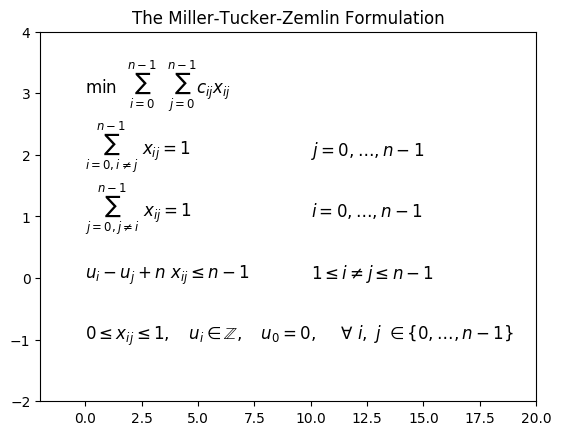
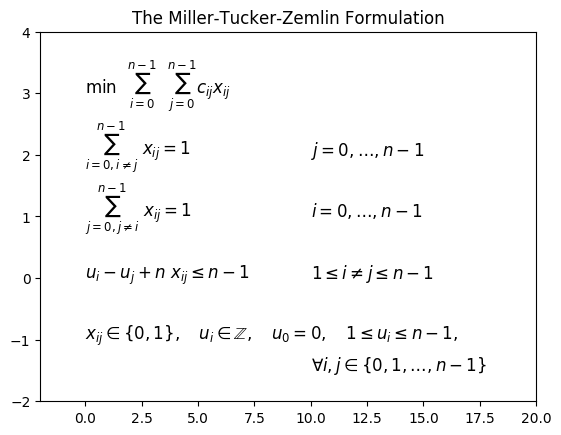
modified miscs

diff --git a/web_misc/with_isbn/title_wise_savefig.py b/web_misc/with_isbn/title_wise_savefig.py
@@ -54,8 +54,10 @@ class bookmeter():
 
 
 def request(title):
-    with open('isbn.json', 'r') as f:
+    with open('isbn2.json', 'r') as f:
         isbn_dict = json.load(f)
+    if title not in isbn_dict:
+        return None
     columns = ['booklog', 'bl_ratings', 'bl_reviews', 'bookmeter']
     rows = []
     print title
@@ -74,7 +76,8 @@ def get_df(title):
         return pd.read_csv(csv, index_col='vol', encoding='utf-8')
     else:
         df = request(title)
-        df.to_csv(csv, encoding='utf-8')
+        if df is not None:
+            df.to_csv(csv, encoding='utf-8')
         return df
 
 
@@ -91,13 +94,14 @@ def draw(df, title):
     plt.title(title, fontproperties=fp)
 
 if __name__ == '__main__':
-    titles = [u'ONE PIECE', u'ブラッククローバー', u'HUNTER X HUNTER',
-              u'ちはやふる', u'NARUTO -ナルト-', u'BLEACH', u'君に届け',
-              u'鬼滅の刃']
+    titles = [u'ワンピース', u'ナルト', u'ブラッククローバー', u'鬼滅の刃',
+              u'ちはやふる', u'君に届け']
     for t in titles:
         if os.path.exists(t + '.png'):
             continue
         df = get_df(t)
+        if df is None:
+            quit()
         draw(df, t)
         plt.savefig(t + '.png', bbox_inches='tight')
         plt.close()

diff --git a/web_misc/word_cloud/wc_example1.py b/web_misc/word_cloud/wc_example1.py
@@ -4,18 +4,22 @@ from wordcloud import WordCloud
 import matplotlib.pyplot as plt
 
 def morphological_analysis(sentence):
+    stop = [u'よう', u'こと', u'これ', u'それ', u'そこ', u'これ', u'ため',
+            u'さん', u'もの', u'なり', u'みたい', u'ない', u'ここ', u'どこ',
+            u'なに', u'たち', u'ただ', u'ところ', u'あと', u'とき', u'なく']
     morphs = ""
     t = Tokenizer()
     for token in t.tokenize(sentence):
         if token.part_of_speech.split(',')[0] in u'名詞形容詞':
-            morphs += ' ' + token.surface
+            if token.surface not in stop:
+                morphs += ' ' + token.surface
     return morphs[1:]
 
 def draw_wordcloud(morphemes):
     fp = r'C:\WINDOWS\Fonts\DFJHSGW5.ttc'
-    wc = WordCloud(background_color='white', font_path=fp,
-                   width=400, height=100).generate(morphemes)
-    plt.imshow(wc)
+    wc = WordCloud(background_color='white', font_path=fp, min_font_size=7,
+                   width=800, height=200).generate(morphemes)
+    plt.imshow(wc, interpolation='catrom')
 
 if __name__ == '__main__':
     sentence = u'そこのイヌ。吾輩はネコである。すごいネコである。夏目漱石'

diff --git a/approximation_algorithms/chapter_02/2.2 k-center/kcen.py b/approximation_algorithms/chapter_02/2.2 k-center/kcen.py
@@ -4,7 +4,7 @@ import matplotlib.pyplot as plt
 
 def gen(n=2, k=3):
     P = np.random.random((n, 2)) + np.random.randint(0, 10, 2)
-    for i in range(k-1):
+    for i in range(k - 1):
         pts = np.random.random((n, 2)) + np.random.randint(0, 10, 2)
         P = np.concatenate((P, pts))
     return P
@@ -29,17 +29,18 @@ def draw_circle(V, S, r):
     for s in S:
         c = plt.Circle(V[s], r, alpha=0.125, color='g', edgecolor=None)
         plt.gca().add_artist(c)
-    plt.gca().scatter(V[S, 0], V[S, 1], color='r')
+    plt.gca().scatter(V[S, 0], V[S, 1], color='r', s=10)
     print r
 
 
 def draw(V, S):
-    plt.gca().scatter(V[:, 0], V[:, 1])
+    plt.gca().scatter(V[:, 0], V[:, 1], s=10)
     draw_circle(V, S, radius(V, S))
 
     plt.gca().set_aspect('equal')
-    plt.gca().autoscale(tight=True)
-    plt.show()
+    plt.tight_layout()
+    plt.gca().set_xlim([-1, 11])
+    plt.gca().set_ylim([-1, 11])
 
 
 if __name__ == '__main__':
@@ -47,3 +48,5 @@ if __name__ == '__main__':
     V = gen(n, k * 1)
     S = greedy_2_approx(V, k)
     draw(V, S)
+    plt.savefig('kcen.png', bbox_inches='tight')
+    plt.show()

diff --git a/approximation_algorithms/chapter_02/2.4 TSP/mtz_formulation_string.py b/approximation_algorithms/chapter_02/2.4 TSP/mtz_formulation_string.py
@@ -19,9 +19,11 @@ plt.text(0.0, 0.0, subtour, fontsize=12)
 suffix = r'$1 \leq i \neq j \leq n - 1$'
 plt.text(10.0, 0.0, suffix, fontsize=12)
 
-others = r'$0 \leq x_{ij} \leq 1, \ \ \ u_i \in \mathbb{Z}, \ \ \ u_0 = 0,'
-others += r'\ \ \ \ \forall\ i,\ j\ \in \{0, \ldots, n - 1\}$'
+others = r'$x_{ij} \in \{0, 1\},\ \ \ u_i \in \mathbb{Z}, \ \ \ u_0 = 0,'
+others += r'\ \ \ 1\leq u_i \leq n - 1,$'
 plt.text(0.0, -1.0, others, fontsize=12)
+others = r'$\forall i, j \in \{0, 1, \ldots, n - 1\}$'
+plt.text(10.0, -1.5, others, fontsize=12)
 
 plt.title('The Miller-Tucker-Zemlin Formulation')
 plt.gca().set_xlim([-2, 20])

diff --git a/web_misc/web_comics/kurage-bunch.py b/web_misc/web_comics/kurage-bunch.py
@@ -46,7 +46,7 @@ def get_chaps(title, chaps):
         print title, str(chap)
         if os.path.exists(title + '/' + str(chap) + '.zip'):
             continue
-        imgs = get_imgs(base_url + "/" + title + "/" + str(chap) + "/")
+        imgs = get_imgs(base_url + "/" + title + "/" + str(chap).zfill(2) + "/")
         archiving(imgs, title, str(chap))
 
 
@@ -80,5 +80,5 @@ def update(titles):
 
 
 if __name__ == '__main__':
-    titles = ['yamashoku', 'shojoshumatsu']
+    titles = ['yamashoku', 'shojoshumatsu', 'orgasm', 'youkai']
     update(titles)

diff --git a/web_misc/web_comics/gangan-online.py b/web_misc/web_comics/gangan-online.py
@@ -101,8 +101,8 @@ if __name__ == '__main__':
     logging.basicConfig(format='%(asctime)s %(message)s',
                         datefmt='%Y/%m/%d',
                         filename='gangan-online.log', level=logging.CRITICAL)
-    titles = ['watashiga', 'adachito', 'nozaki', 'nanashino', 'barakamon',
-              'realno']
+    titles = ['watashiga', 'adachito', 'nozaki', 'barakamon',
+              'realno', 'kinako', 'torimania']
     for title in titles:
         print title
         snapshot(title)

diff --git a/web_misc/web_comics/tomochan.py b/web_misc/web_comics/tomochan.py
@@ -1,5 +1,6 @@
 from glob import glob
 import os
+from os.path import exists, splitext, basename
 import shutil
 import time
 import requests
@@ -7,10 +8,10 @@ from bs4 import BeautifulSoup
 
 
 def current_chap(d):
-    if not os.path.exists(d):
+    if not exists(d):
         os.mkdir(d)
         return 1
-    return int(os.path.splitext(os.path.basename(max(glob(d + '*'))))[0]) + 1
+    return int(splitext(basename(max(glob(d + '*.jpg'))))[0]) + 1
 
 
 def latest_chap(title):

diff --git a/web_misc/new_release/update.py b/web_misc/new_release/update.py
@@ -175,7 +175,7 @@ def update():
                 amazon(c, None, td_.a['href'], cid)
             else:
                 amazon(c, isbn, td_.a['href'], cid)
-            time.sleep(random.randint(240, 360))
+            time.sleep(random.randint(120, 180))
             break
         conn.commit()
     tear_down(conn)
